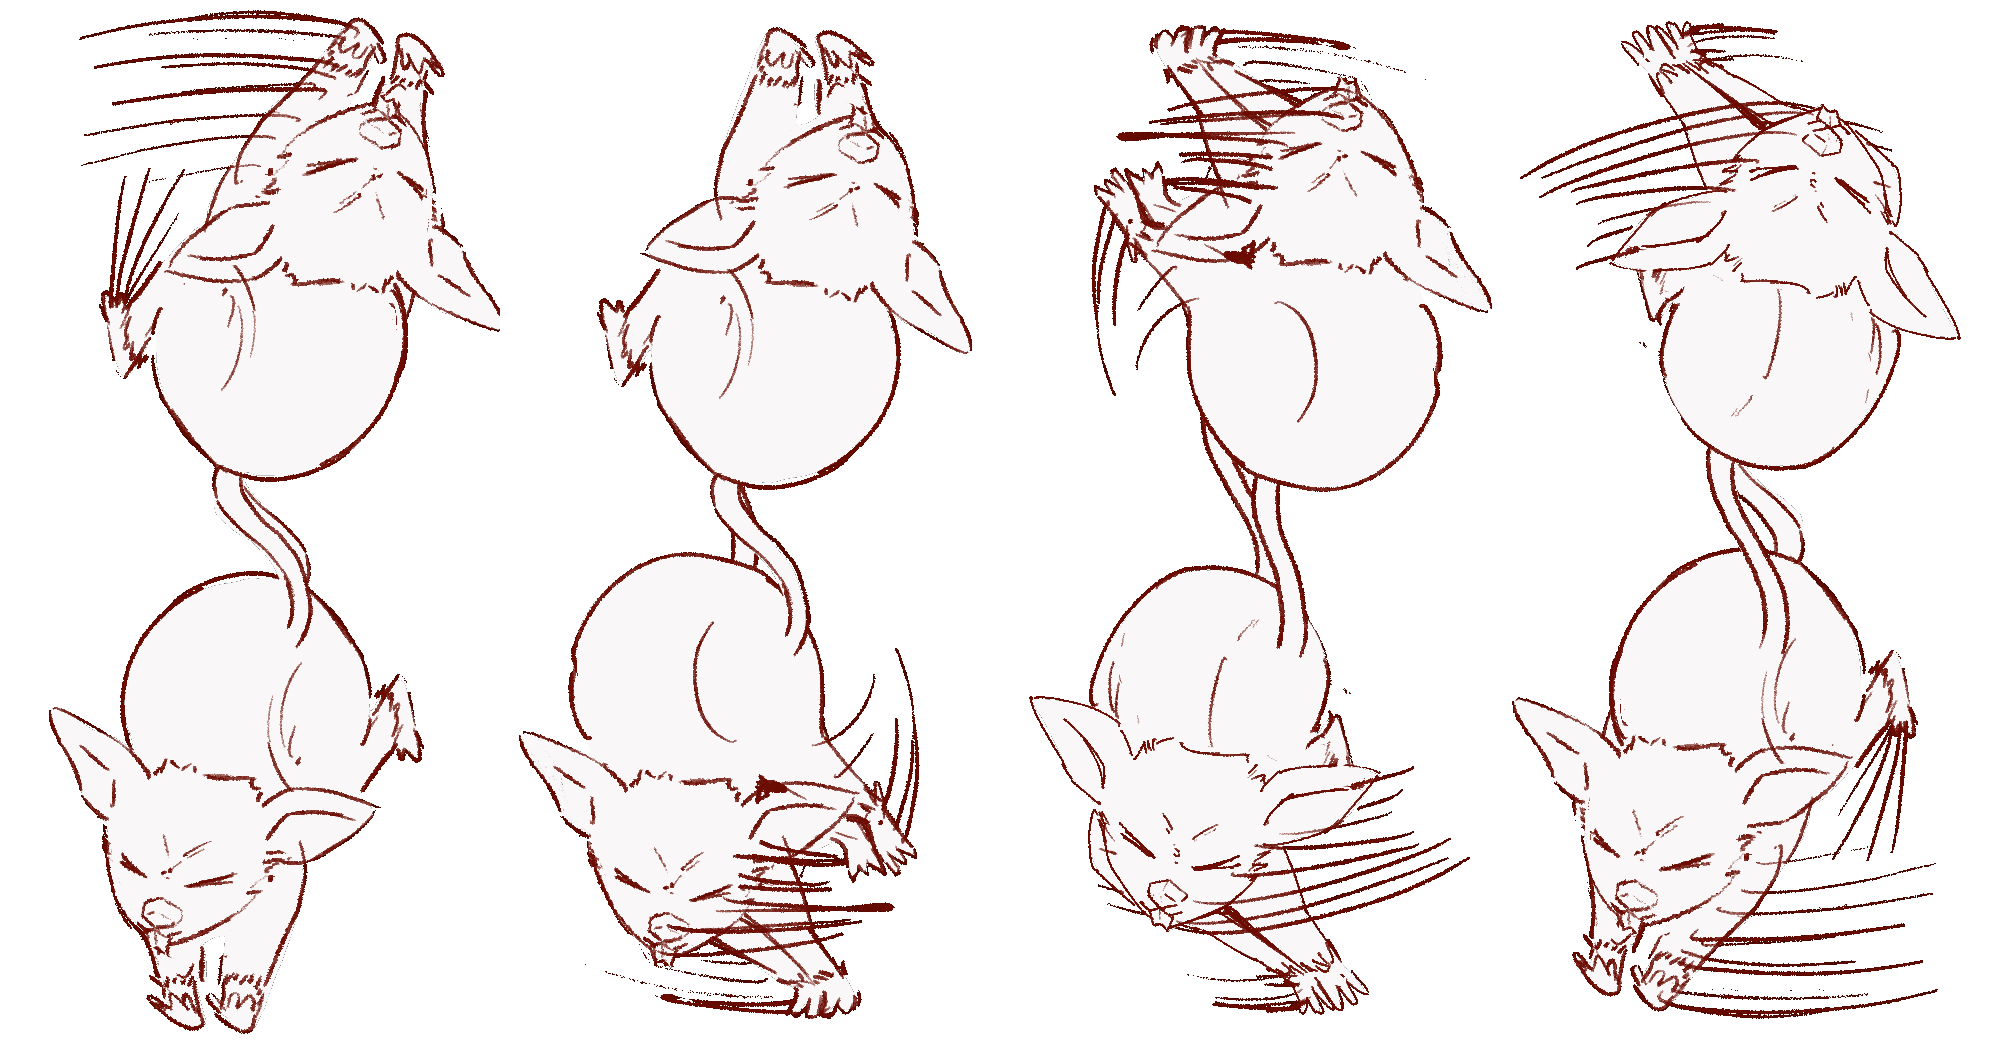
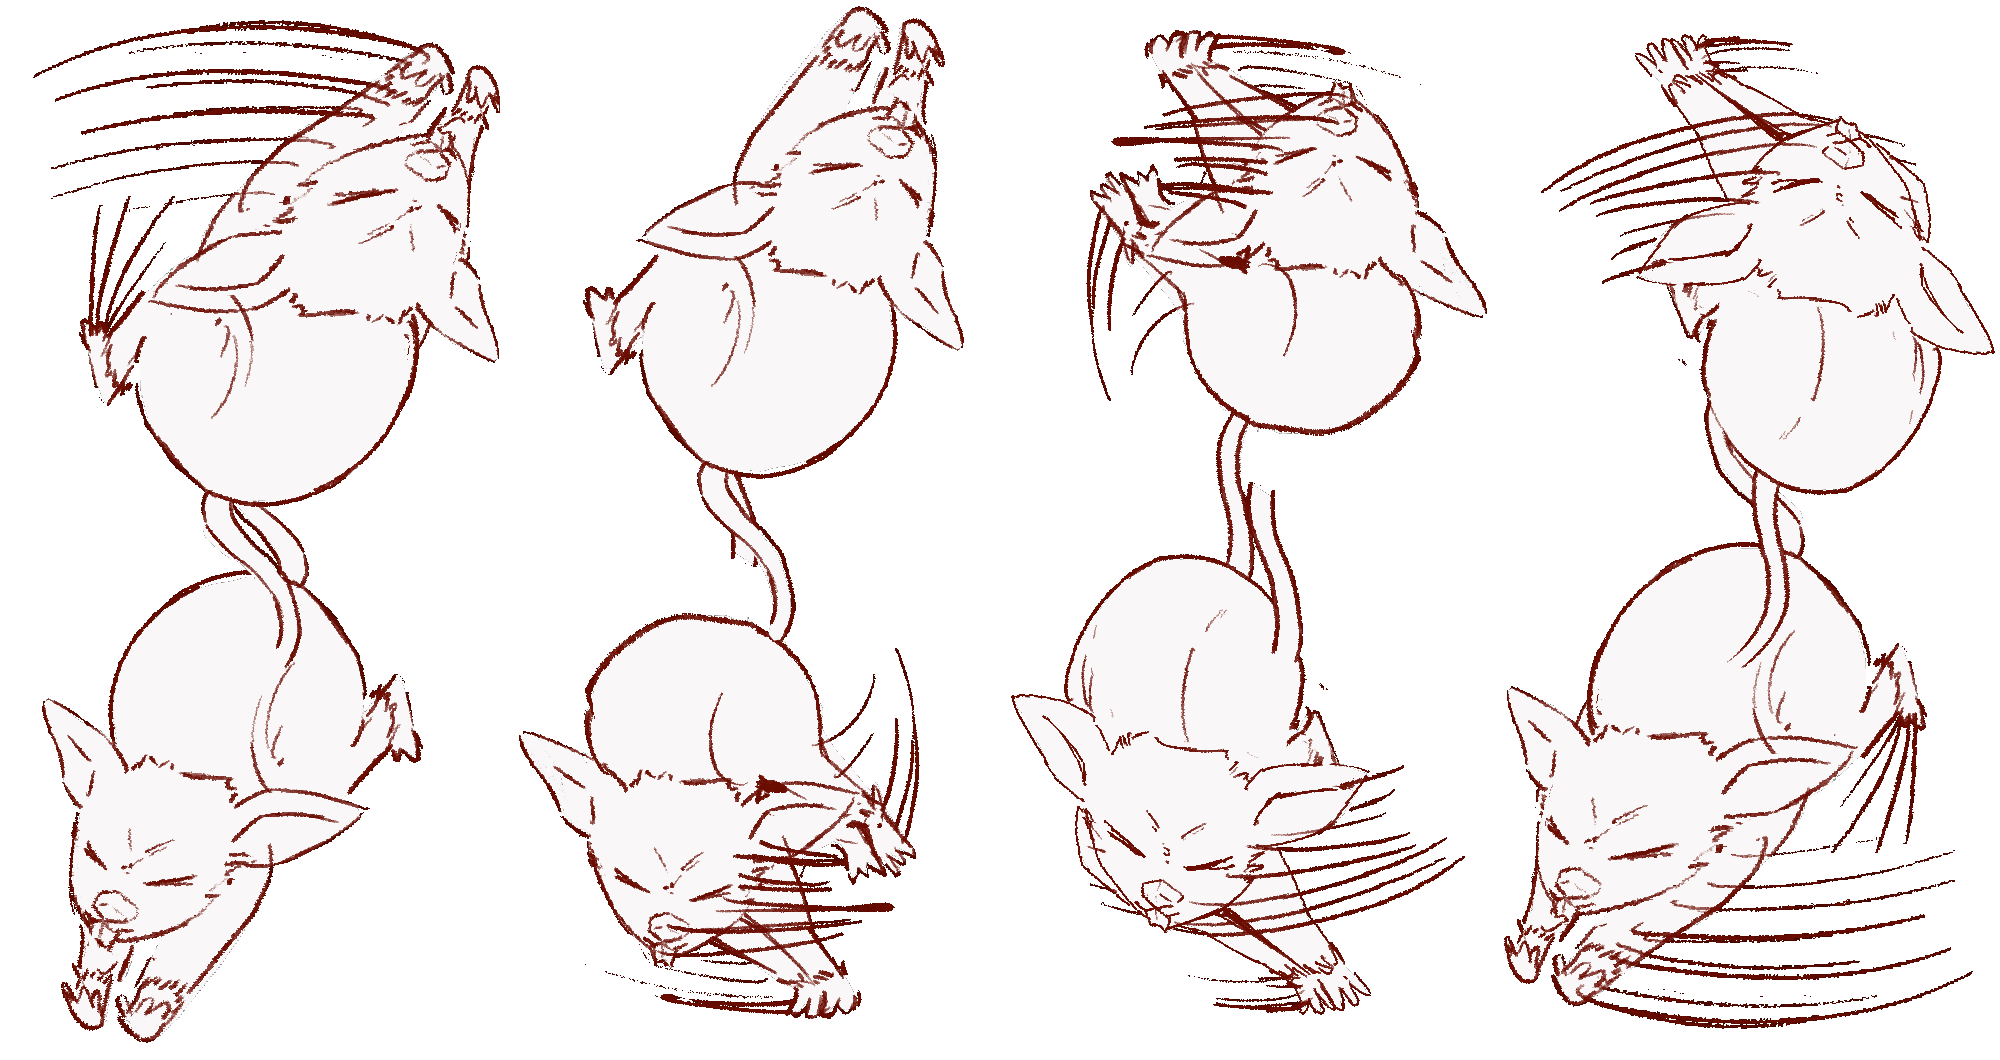
mousespin asset change, update savedgame

diff --git a/core/src/main/java/edu/cornell/cis3152/team8/SpinAttackPattern.java b/core/src/main/java/edu/cornell/cis3152/team8/SpinAttackPattern.java
@@ -120,11 +120,12 @@ public class SpinAttackPattern extends BossAttackPattern {
                             preSpin.update(delta);
                         } else {
                             boss.setState("spinning");
-                            boss.setAnimation("spin");
-                            boss.setAnimationFrame(0);
+                            boss.setAnimation("spin", .5f);
+                            boss.getObstacle().setAngle(boss.getObstacle().getAngle() + 4.5f);
+                            //boss.setAnimationFrame(0);
                         }
                         if (warnTime > warnDuration
-                            / 2f) { // Stop picking new location after half of the warning time
+                            * .1f) { // Stop picking new location after half of the warning time
                             setControlCode();
                         }
                         warnPattern.setPosition(controller.boss.getObstacle().getX(), controller.boss.getObstacle().getY());
@@ -134,7 +135,7 @@ public class SpinAttackPattern extends BossAttackPattern {
                     }
                 }
                 case ATTACK -> {
-                    boss.getObstacle().setAngle(boss.getObstacle().getAngle() + 6);
+                    boss.getObstacle().setAngle(boss.getObstacle().getAngle() + 9);
                     boss.setAnimationSpeed(0.15f);
                     if (atWall()) {
                         state = AttackState.ENDED;
